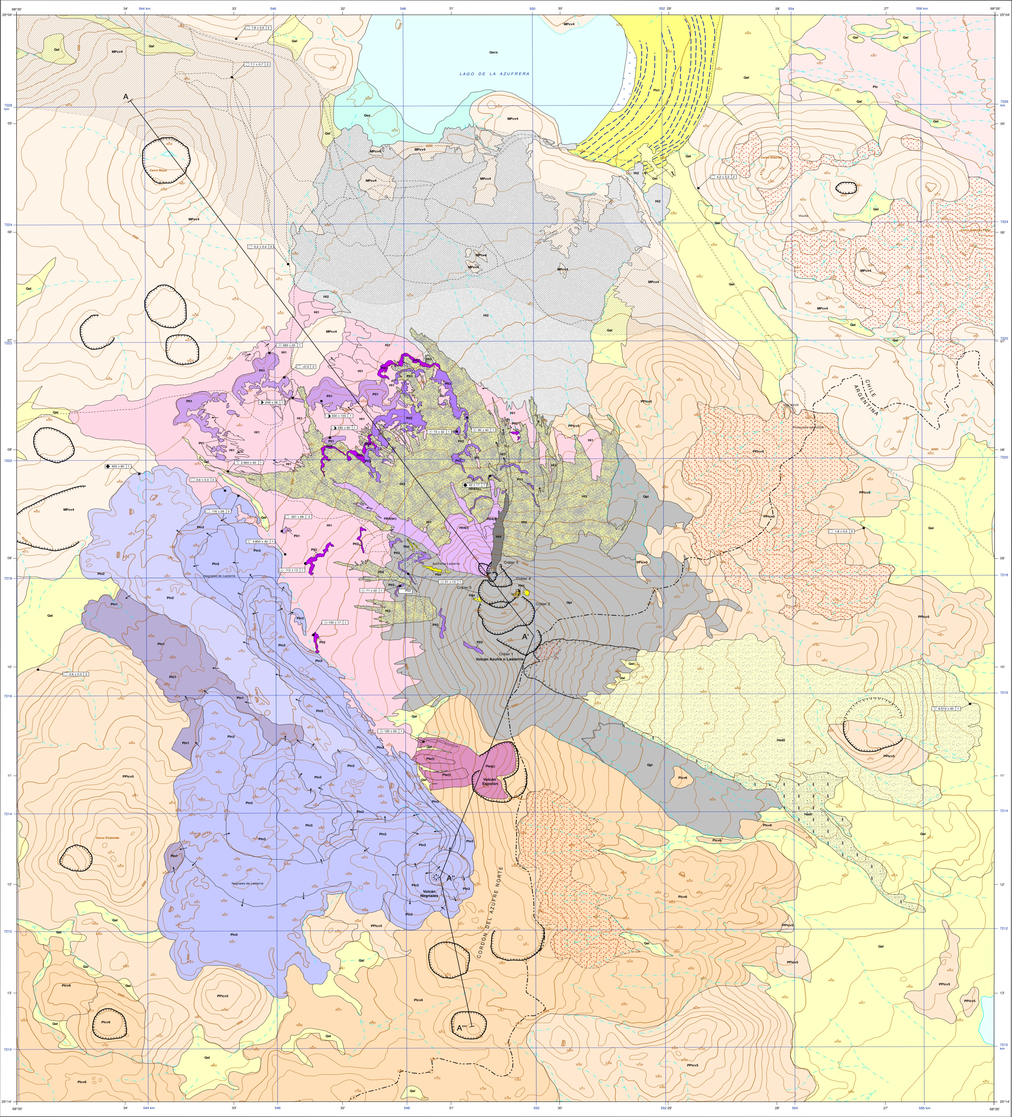
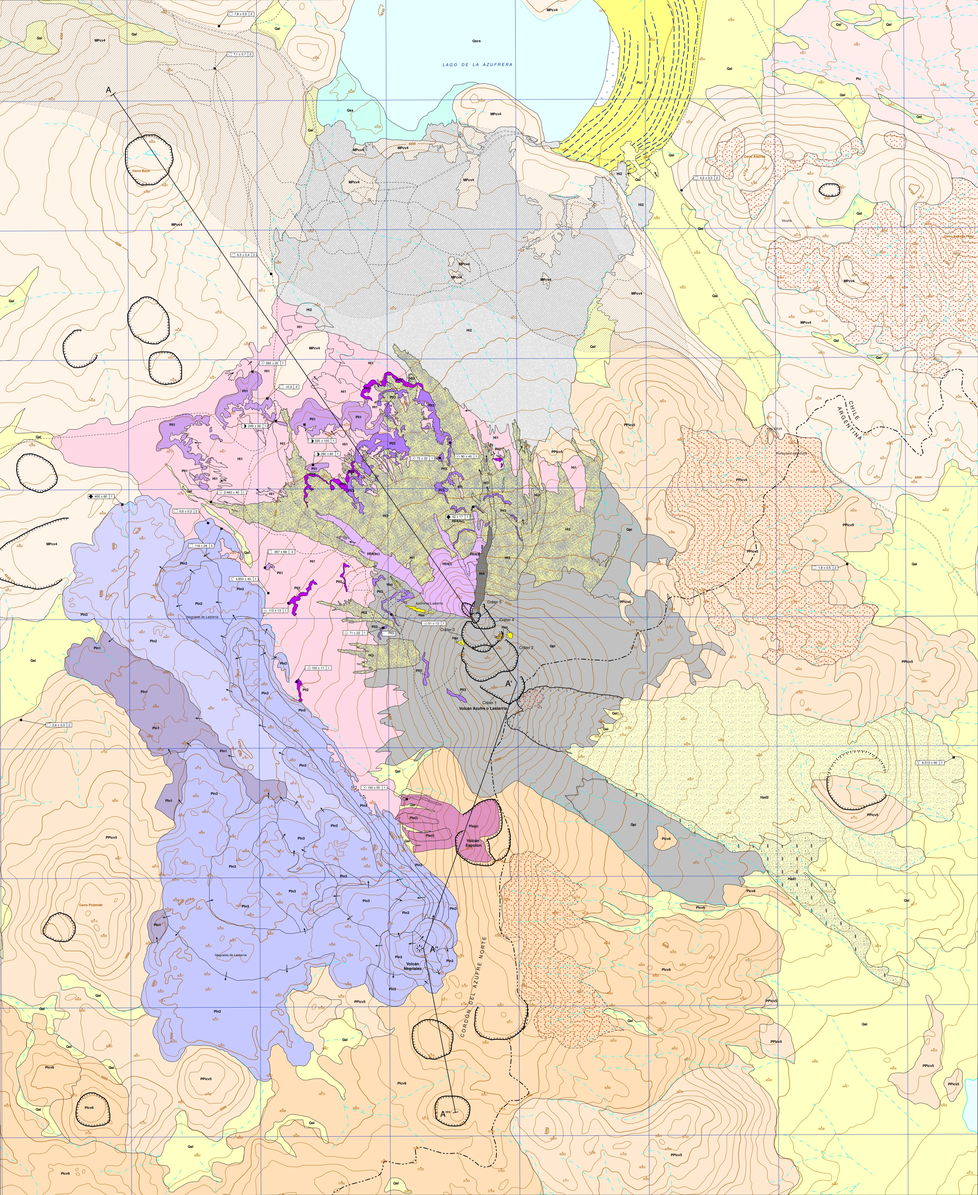
fix: re-georreferencia Lastarria con grilla exacta (contenido de color, sin margen) + cache-bust

diff --git a/index.html b/index.html
@@ -116,6 +116,7 @@
 <script>
 const CATS = [["geologia","🗺 Geología Básica"],["aplicada","⚠ Geología Aplicada"],
   ["historico","📜 Histórico"],["academico","🎓 Académicos"],["hillshade","🏔 Hillshade"]];
+const ASSET_V = '?v=20260827b';   // cache-bust de overlays/leyendas (subir al cambiar assets)
 const map = L.map('map',{center:[-33.9,-71.2],zoom:5});
 const bases = {
   "Satelital": L.tileLayer('https://server.arcgisonline.com/ArcGIS/rest/services/World_Imagery/MapServer/tile/{z}/{y}/{x}',{maxZoom:19,attribution:'Esri'}),
@@ -246,14 +247,14 @@ function crearCapa(cont, c){
   const rng=ctl.querySelector('input[type=range]');
   chk.addEventListener('change',()=>{
     if(chk.checked){
-      if(!overlays[c.id]) overlays[c.id]=L.imageOverlay(c.overlay,bounds,
+      if(!overlays[c.id]) overlays[c.id]=L.imageOverlay(c.overlay+ASSET_V,bounds,
         {opacity:+rng.value,pane:'pane_'+c.categoria});
       overlays[c.id].addTo(map); div.classList.add('on');
     }else if(overlays[c.id]){ overlays[c.id].remove(); div.classList.remove('on'); }
   });
   rng.addEventListener('input',()=>{ if(overlays[c.id]) overlays[c.id].setOpacity(+rng.value); });
   const legBtn=ctl.querySelector('.leg');
-  if(legBtn) legBtn.addEventListener('click',()=>abrirLeyenda(c.leyenda));
+  if(legBtn) legBtn.addEventListener('click',()=>abrirLeyenda(c.leyenda+ASSET_V));
   cont.appendChild(div);
 }
 
